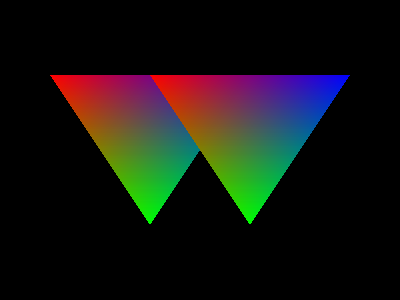
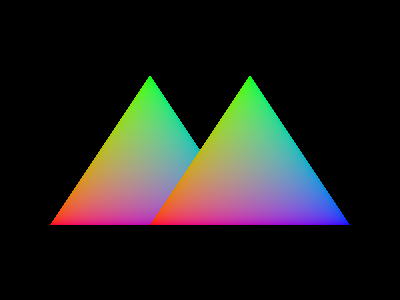
Flip triangles in vulkan tests so output is similar to other APIs

diff --git a/tests/Vulkan/VK_Indirect.py b/tests/Vulkan/VK_Indirect.py
@@ -122,9 +122,9 @@ class VK_Indirect(rdtest.TestCase):
         postvs_data = self.get_postvs(rd.MeshDataStage.VSOut)
 
         postvs_ref = {
-            0: {'vtx': 0, 'idx': 0, 'gl_PerVertex.gl_Position': [-0.8, 0.5, 0.0, 1.0]},
-            1: {'vtx': 1, 'idx': 1, 'gl_PerVertex.gl_Position': [-0.7, 0.8, 0.0, 1.0]},
-            2: {'vtx': 2, 'idx': 2, 'gl_PerVertex.gl_Position': [-0.6, 0.5, 0.0, 1.0]},
+            0: {'vtx': 0, 'idx': 0, 'gl_PerVertex.gl_Position': [-0.8, -0.5, 0.0, 1.0]},
+            1: {'vtx': 1, 'idx': 1, 'gl_PerVertex.gl_Position': [-0.7, -0.8, 0.0, 1.0]},
+            2: {'vtx': 2, 'idx': 2, 'gl_PerVertex.gl_Position': [-0.6, -0.5, 0.0, 1.0]},
         }
 
         self.check_mesh_data(postvs_ref, postvs_data)
@@ -147,9 +147,9 @@ class VK_Indirect(rdtest.TestCase):
         # These indices are the *output* indices, which have been rebased/remapped, so are not the same as the input
         # indices
         postvs_ref = {
-            0: {'vtx': 0, 'idx': 0, 'gl_PerVertex.gl_Position': [-0.6, 0.5, 0.0, 1.0]},
-            1: {'vtx': 1, 'idx': 1, 'gl_PerVertex.gl_Position': [-0.5, 0.8, 0.0, 1.0]},
-            2: {'vtx': 2, 'idx': 2, 'gl_PerVertex.gl_Position': [-0.4, 0.5, 0.0, 1.0]},
+            0: {'vtx': 0, 'idx': 0, 'gl_PerVertex.gl_Position': [-0.6, -0.5, 0.0, 1.0]},
+            1: {'vtx': 1, 'idx': 1, 'gl_PerVertex.gl_Position': [-0.5, -0.8, 0.0, 1.0]},
+            2: {'vtx': 2, 'idx': 2, 'gl_PerVertex.gl_Position': [-0.4, -0.5, 0.0, 1.0]},
         }
 
         self.check_mesh_data(postvs_ref, postvs_data)
@@ -170,13 +170,13 @@ class VK_Indirect(rdtest.TestCase):
         postvs_data = self.get_postvs(rd.MeshDataStage.VSOut)
 
         postvs_ref = {
-            0: {'vtx': 0, 'idx': 0, 'gl_PerVertex.gl_Position': [-0.4, 0.5, 0.0, 1.0]},
-            1: {'vtx': 1, 'idx': 1, 'gl_PerVertex.gl_Position': [-0.3, 0.8, 0.0, 1.0]},
-            2: {'vtx': 2, 'idx': 2, 'gl_PerVertex.gl_Position': [-0.2, 0.8, 0.0, 1.0]},
+            0: {'vtx': 0, 'idx': 0, 'gl_PerVertex.gl_Position': [-0.4, -0.5, 0.0, 1.0]},
+            1: {'vtx': 1, 'idx': 1, 'gl_PerVertex.gl_Position': [-0.3, -0.8, 0.0, 1.0]},
+            2: {'vtx': 2, 'idx': 2, 'gl_PerVertex.gl_Position': [-0.2, -0.8, 0.0, 1.0]},
 
-            3: {'vtx': 3, 'idx': 3, 'gl_PerVertex.gl_Position': [-0.1, 0.5, 0.0, 1.0]},
-            4: {'vtx': 4, 'idx': 4, 'gl_PerVertex.gl_Position': [ 0.0, 0.8, 0.0, 1.0]},
-            5: {'vtx': 5, 'idx': 5, 'gl_PerVertex.gl_Position': [ 0.1, 0.8, 0.0, 1.0]},
+            3: {'vtx': 3, 'idx': 3, 'gl_PerVertex.gl_Position': [-0.1, -0.5, 0.0, 1.0]},
+            4: {'vtx': 4, 'idx': 4, 'gl_PerVertex.gl_Position': [ 0.0, -0.8, 0.0, 1.0]},
+            5: {'vtx': 5, 'idx': 5, 'gl_PerVertex.gl_Position': [ 0.1, -0.8, 0.0, 1.0]},
         }
 
         self.check_mesh_data(postvs_ref, postvs_data)
@@ -228,9 +228,9 @@ class VK_Indirect(rdtest.TestCase):
             # These indices are the *output* indices, which have been rebased/remapped, so are not the same as the input
             # indices
             postvs_ref = {
-                0: {'vtx': 0, 'idx': 0, 'gl_PerVertex.gl_Position': [-0.8, -0.5, 0.0, 1.0]},
-                1: {'vtx': 1, 'idx': 1, 'gl_PerVertex.gl_Position': [-0.7, -0.2, 0.0, 1.0]},
-                2: {'vtx': 2, 'idx': 2, 'gl_PerVertex.gl_Position': [-0.6, -0.5, 0.0, 1.0]},
+                0: {'vtx': 0, 'idx': 0, 'gl_PerVertex.gl_Position': [-0.8, 0.5, 0.0, 1.0]},
+                1: {'vtx': 1, 'idx': 1, 'gl_PerVertex.gl_Position': [-0.7, 0.2, 0.0, 1.0]},
+                2: {'vtx': 2, 'idx': 2, 'gl_PerVertex.gl_Position': [-0.6, 0.5, 0.0, 1.0]},
             }
 
             self.check_mesh_data(postvs_ref, postvs_data)
@@ -258,9 +258,9 @@ class VK_Indirect(rdtest.TestCase):
             # These indices are the *output* indices, which have been rebased/remapped, so are not the same as the input
             # indices
             postvs_ref = {
-                0: {'vtx': 0, 'idx': 0, 'gl_PerVertex.gl_Position': [-0.6, -0.5, 0.0, 1.0]},
-                1: {'vtx': 1, 'idx': 1, 'gl_PerVertex.gl_Position': [-0.5, -0.2, 0.0, 1.0]},
-                2: {'vtx': 2, 'idx': 2, 'gl_PerVertex.gl_Position': [-0.4, -0.5, 0.0, 1.0]},
+                0: {'vtx': 0, 'idx': 0, 'gl_PerVertex.gl_Position': [-0.6, 0.5, 0.0, 1.0]},
+                1: {'vtx': 1, 'idx': 1, 'gl_PerVertex.gl_Position': [-0.5, 0.2, 0.0, 1.0]},
+                2: {'vtx': 2, 'idx': 2, 'gl_PerVertex.gl_Position': [-0.4, 0.5, 0.0, 1.0]},
             }
 
             self.check_mesh_data(postvs_ref, postvs_data)
@@ -298,13 +298,13 @@ class VK_Indirect(rdtest.TestCase):
             # These indices are the *output* indices, which have been rebased/remapped, so are not the same as the input
             # indices
             postvs_ref = {
-                0: {'vtx': 0, 'idx': 0, 'gl_PerVertex.gl_Position': [-0.4, -0.5, 0.0, 1.0]},
-                1: {'vtx': 1, 'idx': 1, 'gl_PerVertex.gl_Position': [-0.3, -0.2, 0.0, 1.0]},
-                2: {'vtx': 2, 'idx': 2, 'gl_PerVertex.gl_Position': [-0.2, -0.2, 0.0, 1.0]},
+                0: {'vtx': 0, 'idx': 0, 'gl_PerVertex.gl_Position': [-0.4, 0.5, 0.0, 1.0]},
+                1: {'vtx': 1, 'idx': 1, 'gl_PerVertex.gl_Position': [-0.3, 0.2, 0.0, 1.0]},
+                2: {'vtx': 2, 'idx': 2, 'gl_PerVertex.gl_Position': [-0.2, 0.2, 0.0, 1.0]},
 
-                3: {'vtx': 3, 'idx': 3, 'gl_PerVertex.gl_Position': [-0.1, -0.5, 0.0, 1.0]},
-                4: {'vtx': 4, 'idx': 4, 'gl_PerVertex.gl_Position': [ 0.0, -0.2, 0.0, 1.0]},
-                5: {'vtx': 5, 'idx': 5, 'gl_PerVertex.gl_Position': [ 0.1, -0.2, 0.0, 1.0]},
+                3: {'vtx': 3, 'idx': 3, 'gl_PerVertex.gl_Position': [-0.1, 0.5, 0.0, 1.0]},
+                4: {'vtx': 4, 'idx': 4, 'gl_PerVertex.gl_Position': [ 0.0, 0.2, 0.0, 1.0]},
+                5: {'vtx': 5, 'idx': 5, 'gl_PerVertex.gl_Position': [ 0.1, 0.2, 0.0, 1.0]},
             }
 
             self.check_mesh_data(postvs_ref, postvs_data)

diff --git a/tests/Vulkan/VK_Simple_Triangle.py b/tests/Vulkan/VK_Simple_Triangle.py
@@ -19,24 +19,24 @@ class VK_Simple_Triangle(rdtest.TestCase):
             0: {
                 'vtx': 0,
                 'idx': 0,
-                'gl_PerVertex.gl_Position': [-0.5, -0.5, 0.0, 1.0],
-                'vertOut.pos': [-0.5, -0.5, 0.0, 1.0],
+                'gl_PerVertex.gl_Position': [-0.5, 0.5, 0.0, 1.0],
+                'vertOut.pos': [-0.5, 0.5, 0.0, 1.0],
                 'vertOut.col': [1.0, 0.0, 0.0, 1.0],
                 'vertOut.uv': [0.0, 0.0, 0.0, 1.0],
             },
             1: {
                 'vtx': 1,
                 'idx': 1,
-                'gl_PerVertex.gl_Position': [0.0, 0.5, 0.0, 1.0],
-                'vertOut.pos': [0.0, 0.5, 0.0, 1.0],
+                'gl_PerVertex.gl_Position': [0.0, -0.5, 0.0, 1.0],
+                'vertOut.pos': [0.0, -0.5, 0.0, 1.0],
                 'vertOut.col': [0.0, 1.0, 0.0, 1.0],
                 'vertOut.uv': [0.0, 1.0, 0.0, 1.0],
             },
             2: {
                 'vtx': 2,
                 'idx': 2,
-                'gl_PerVertex.gl_Position': [0.5, -0.5, 0.0, 1.0],
-                'vertOut.pos': [0.5, -0.5, 0.0, 1.0],
+                'gl_PerVertex.gl_Position': [0.5, 0.5, 0.0, 1.0],
+                'vertOut.pos': [0.5, 0.5, 0.0, 1.0],
                 'vertOut.col': [0.0, 0.0, 1.0, 1.0],
                 'vertOut.uv': [1.0, 0.0, 0.0, 1.0],
             },

diff --git a/demos/vk/vk_vs_max_desc_set.cpp b/demos/vk/vk_vs_max_desc_set.cpp
@@ -52,7 +52,7 @@ layout(location = 0) out v2f vertOut;
 
 void main()
 {
-	vertOut.pos = vec4(Position.xyz, 1);
+	vertOut.pos = vec4(Position.xyz*vec3(1,-1,1), 1);
 	gl_Position = vertOut.pos;
 	vertOut.col = get_cbuffer_color();
 	vertOut.uv = vec4(UV.xy, 0, 1);

diff --git a/demos/vk/vk_indirect.cpp b/demos/vk/vk_indirect.cpp
@@ -53,7 +53,7 @@ layout(location = 0) out v2f vertOut;
 
 void main()
 {
-	vertOut.pos = vec4(Position.xyz, 1);
+	vertOut.pos = vec4(Position.xyz*vec3(1,-1,1), 1);
 	gl_Position = vertOut.pos;
 	vertOut.col = Color;
 	vertOut.uv = vec4(UV.xy, 0, 1);

diff --git a/demos/vk/vk_secondary_cmdbuf.cpp b/demos/vk/vk_secondary_cmdbuf.cpp
@@ -51,7 +51,7 @@ layout(location = 0) out v2f vertOut;
 
 void main()
 {
-	vertOut.pos = vec4(Position.xyz, 1);
+	vertOut.pos = vec4(Position.xyz*vec3(1,-1,1), 1);
 	gl_Position = vertOut.pos;
 	vertOut.col = Color;
 	vertOut.uv = vec4(UV.xy, 0, 1);

diff --git a/demos/vk/vk_simple_triangle.cpp b/demos/vk/vk_simple_triangle.cpp
@@ -53,7 +53,7 @@ layout(location = 0) out v2f vertOut;
 
 void main()
 {
-	vertOut.pos = vec4(Position.xyz, 1);
+	vertOut.pos = vec4(Position.xyz*vec3(1,-1,1), 1);
 	gl_Position = vertOut.pos;
 	vertOut.col = Color;
 	vertOut.uv = vec4(UV.xy, 0, 1);
